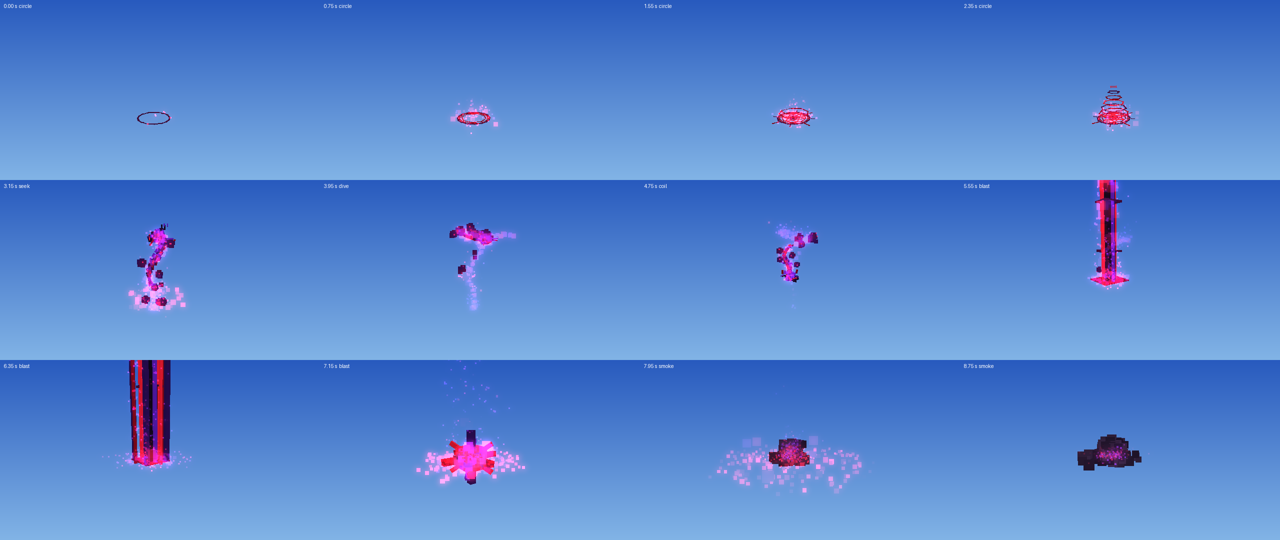
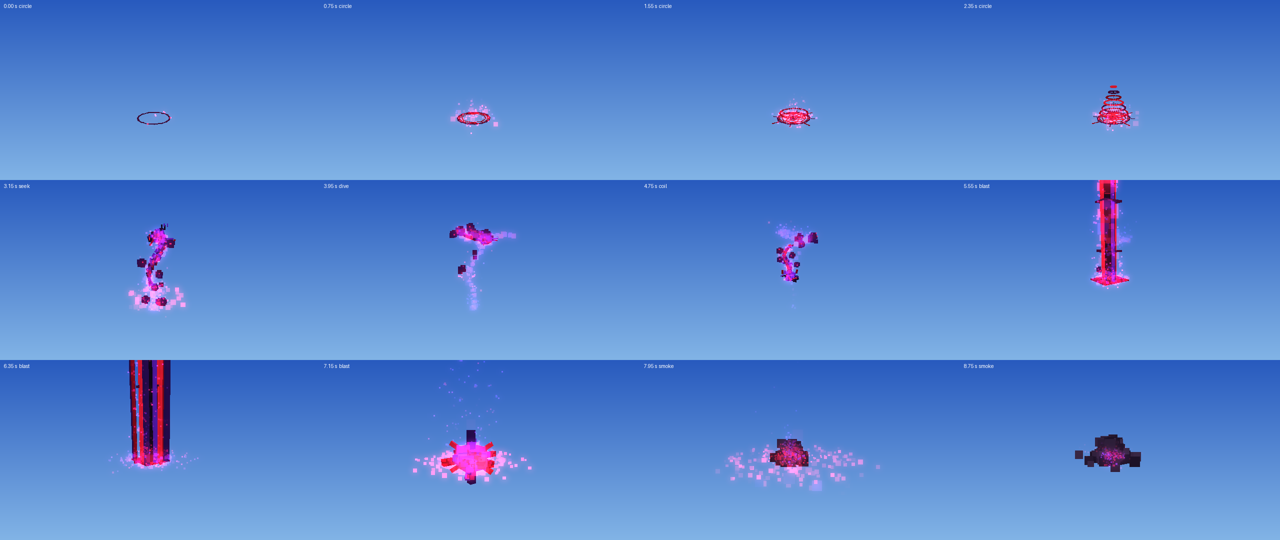
Circles above the ritual circle are ring particle emitters (one entity each); beam tip ball is particles; main circle stays meshes

diff --git a/dragon_pulse/world_code.js b/dragon_pulse/world_code.js
@@ -28,6 +28,7 @@ var DP_CFG = {
   detail: 3,
   maxMeshes: 399,
   nodes: "",
+  ringParticles: true,
 }
 
 var DP_COL = {
@@ -60,12 +61,12 @@ var DP_CIRCLE = [
   [4, 0.42, 0.84, 0.1, 0.06, "blood", 0, 0.06, 24, 0.12],
   [4, 4.7, 1.5, 0.2, 0.06, "blood", 0, 0, 27, 0, "r"],
   [4, 4.35, 0.8, 0.12, 0.06, "wine", 45, 0, 29, 0, "r"],
-  [8, 3.1, 2.57, 0.1, 0.08, "blood", 0, 1.2, 31, 0.05, "k"],
-  [8, 2.6, 2.15, 0.1, 0.08, "wine", 22.5, 2.4, 33, -0.06, "k"],
-  [8, 2.1, 1.74, 0.1, 0.08, "crimson", 0, 3.6, 35, 0.07],
-  [8, 1.6, 1.33, 0.1, 0.08, "blood", 22.5, 4.8, 37, -0.08],
-  [6, 1.1, 1.27, 0.1, 0.08, "wine", 0, 6, 39, 0.09],
-  [4, 0.6, 1.2, 0.1, 0.08, "crimson", 0, 7.2, 41, -0.1],
+  [8, 3.1, 2.57, 0.1, 0.08, "blood", 0, 1.2, 31, 0.05, "ke"],
+  [8, 2.6, 2.15, 0.1, 0.08, "wine", 22.5, 2.4, 33, -0.06, "ke"],
+  [8, 2.1, 1.74, 0.1, 0.08, "crimson", 0, 3.6, 35, 0.07, "ke"],
+  [8, 1.6, 1.33, 0.1, 0.08, "blood", 22.5, 4.8, 37, -0.08, "ke"],
+  [6, 1.1, 1.27, 0.1, 0.08, "wine", 0, 6, 39, 0.09, "ke"],
+  [4, 0.6, 1.2, 0.1, 0.08, "crimson", 0, 7.2, 41, -0.1, "ke"],
   [1, 0, 0.5, 0.5, 0.5, "crimson", 0, 0.7, 44, 0, "spink"],
   [1, 0, 1.1, 1.1, 0.08, "void", 0, 0.08, 44, 0.2, "k"],
 ]
@@ -400,7 +401,9 @@ function dpBeam(c, base, k, tall, wide, two) {
   dpBars(c, "beam", "beam_", base, k, w, tall)
   if (two) dpBars(c, "beam2", "beam_b", base, k, w, tall * two)
   var top = DP_MESH.beamTop
-  dpPut(c, "beam_tip", top[0], "", dpAdd(base, [0, 1, 0], tall), null, k)
+  dpSize = 2 * k
+  dpShape("ray", dpAdd(base, [0, 1, 0], tall), dpBall(10), 1.1 * k, 0)
+  dpSize = 1
   dpPut(c, "beam_base", top[1], "", dpAdd(base, [0, 1, 0], 0.1), null, k)
   for (var n = 0; n < 3; n++) dpPut(c, "beam_ring" + n, top[2], "", dpAdd(base, [0, 1, 0], tall * ((n / 3 + c.t * 0.11) % 1)), null, k)
   dpFx("mote", base, 8, 1.4 * k, "magenta", "white", [0, 1, 0])
@@ -498,6 +501,34 @@ function dpRigid(c, name, tag, pos, B, k) {
   if (id && c.fresh) dpRows(name).forEach((r) => dpHang(id, r, k, [r[6] * k, r[7] * k, r[5] * k], 0))
 }
 
+function dpEmitter(rad, col) {
+  var a = DP_COL[col]
+  var b = DP_COL.crimson
+  return {
+    texture: "square_particle",
+    minLifeTime: 0.24,
+    maxLifeTime: 0.36,
+    minEmitPower: 0.05,
+    maxEmitPower: 0.25,
+    minSize: 0.12,
+    maxSize: 0.24,
+    gravity: [0, 0.4, 0],
+    velocityGradients: [{ timeFraction: 0, factor: 1, factor2: 1 }],
+    colorGradients: [
+      { timeFraction: 0, minColor: b.concat(1), maxColor: b.concat(1) },
+      { timeFraction: 0.3, minColor: a.concat(1), maxColor: b.concat(1) },
+      { timeFraction: 1, minColor: a.concat(0), maxColor: a.concat(0) },
+    ],
+    blendMode: 2,
+    hideDist: DP_CFG.hideDist,
+    width: rad * 2,
+    depth: rad * 2,
+    height: 0.08,
+    emitRate: Math.round(30 + rad * 40),
+    emitterShape: "ring",
+  }
+}
+
 function dpCircle(c) {
   var node = DP_CFG.nodes
   for (var a = 0; a < DP_CIRCLE.length; a++) {
@@ -507,6 +538,21 @@ function dpCircle(c) {
     if (age < 0) continue
     if (age === 0) dpSound("ring", c.home, 0.8 + a * 0.07)
     var radial = dpFlag(row, "r")
+    if (DP_CFG.ringParticles && dpFlag(row, "e")) {
+      if (!c.m["ring" + a + "_e"] && dpMeshes + dpOther() < DP_CFG.maxMeshes) {
+        try {
+          var e = api.attemptCreateMeshEntity("ParticleEmitter", dpEmitter(r[1], r[5]))
+          if (e) {
+            c.m["ring" + a + "_e"] = e
+            dpMeshes++
+            api.setPosition(e, c.home[0], c.home[1] + r[7], c.home[2])
+          }
+        } catch (err) {
+          DP_CFG.ringParticles = false
+        }
+      }
+      if (DP_CFG.ringParticles) continue
+    }
     if (node) {
       var id = dpCarrier(c, "ringc" + r[9], c.home, null, -r[9] * c.ct)
       if (!id || c.hung[a]) continue

diff --git a/dragon_pulse/tools/render.py b/dragon_pulse/tools/render.py
@@ -126,7 +126,7 @@ strip.resize((W * 2, H * 3 // 2)).save(os.path.join(out, 'timeline.png'))
 
 # Six moments from close by. The last two are two dragons that met.
 tick_of = lambda frames, ph, i: [f['t'] for f in frames if f['ph'] == ph][i]
-shots = [(one, one_live, 3, -3, 26), (one, one_live, 4, 4, 14), (one, one_live, 5, 22, 75),
+shots = [(one, one_live, 0, -1, 11), (one, one_live, 1, 9, 16), (one, one_live, 5, 22, 75),
          (one, one_live, 5, 37, 45), (one, one_live, 6, 5, 30), (two, two_live, 9, 9, 110)]
 sheet = Image.new('RGB', (W * 3, H * 2))
 for i, (frames, live, ph, at, back) in enumerate(shots):

diff --git a/README.md b/README.md
@@ -133,9 +133,9 @@ The meshes sit over your own skin; they do not hide it.
 
 | File | Goes into | Characters | Limit |
 |---|---|---|---|
-| `world_code.js` | World Code | 39,281 | 512,000 |
-| `goodra.js` | World Code, below `world_code.js` | 10,215 | 512,000 together: 49,497 |
-| `skin.js` | World Code | 6,032 | 512,000, all three together: 55,530 |
+| `world_code.js` | World Code | 40,662 | 512,000 |
+| `goodra.js` | World Code, below `world_code.js` | 10,215 | 512,000 together: 50,878 |
+| `skin.js` | World Code | 6,032 | 512,000, all three together: 56,911 |
 | `code_block.js` | Code Block | 18 | 32,000 |
 | `studio/particles_only.code_block.js` | Code Block | 6,430 | 32,000 |
 
@@ -146,12 +146,12 @@ the table columns mean is written on this page instead.
 
 | Step | What happens | Built from | Seconds |
 |---|---|---|---|
-| circle | The summoning circle draws itself ring by ring; the star in it turns. Then six more circles appear above it, one after another going up, each smaller than the one below and turning the other way | 124 meshes in 19 rings: a smooth 16-sided outer band with a thin inner band, dashes and dots between them like runes, an octagon, a turning six-pointed star whose points touch it, a hexagon and a square turning the other way, eight spikes outside, a core over a turning plate, and a 7-block-tall cone of six circles above; rising sparks | 0.0–2.5 |
+| circle | The summoning circle draws itself ring by ring; the star in it turns. Then six more circles appear above it, one after another going up, each smaller than the one below and turning the other way | 88 mesh entities: 82 meshes in 13 rings for the main circle and 6 ring particle emitters for the circles above it; a smooth 16-sided outer band with a thin inner band, dashes and dots between them like runes, an octagon, a turning six-pointed star whose points touch it, a hexagon and a square turning the other way, eight spikes outside, a core over a turning plate, and a 7-block-tall cone of six circles above; rising sparks | 0.0–2.5 |
 | emerge | A pillar of light, then the dragon comes up through the floor and spirals 16 blocks up | 113 meshes: a 55-part head and a 58-part body that follows the head's path. The five cloud orbs beside it and the trail behind it are particles | 2.5–3.15 |
 | seek | It circles at the top, then picks its target; a ring flashes on the target | the same dragon | 3.15–3.75 |
 | dive | It weaves down onto the target | the same dragon, shimmer particles | 3.75–4.7 |
 | coil | It wraps round the target; two stars flash | no meshes: each star is 48 particles placed along 12 rays, plus sparks | 4.7–5.3 |
-| beam | The dragon turns into a massive black beam that shoots 72 blocks straight up from the target | 10 meshes: a black core and four thin red and purple beams that grow, a red ball on the tip, a disc at the foot, three collars travelling up; rising sparks | 5.35–5.85 |
+| beam | The dragon turns into a massive black beam that shoots 72 blocks straight up from the target | 9 meshes: a black core and four thin red and purple beams that grow, a ball of particles on the tip, a disc at the foot, three collars travelling up; rising sparks | 5.35–5.85 |
 | second beam | A second beam rises around the first in a fifth of a second and waits: the two throb and slowly thicken (about 9 blocks across) while light is pulled in at the foot and down from the tip | 8 more meshes: four near-black bars on the corners and four thin red bars outside the first beam; gathering glints, a red glow | 5.85–6.65 |
 | collapse | It all comes down: both beams sink from the top into the ground in 0.3 s and get twice as thick while they do | the same 18 meshes; streaks racing down | 6.65–6.95 |
 | blast | It explodes on the ground: a spiked star bursts out to 20 blocks across, three shock rings of particles widen at three heights out to the blast radius, then the star shrinks away. The target is killed at the first moment, others within 16 blocks are hurt and pushed | 8 meshes: the star (`blast`). The rings are 40, 32 and 24 particles, each placed on its circle; flashes, debris, embers, shock waves | 6.95–7.8 |
@@ -228,7 +228,8 @@ The summoning circle is in `DP_CIRCLE`. One row is one ring of equal boxes:
 - spin: how far the ring turns each tick; 0 stands still.
 - flag `spin`: the boxes turn by themselves (the runes and the core). Flag `r`:
   the boxes point away from the middle instead of along the ring. Flag `k`: the
-  ring stays while the dragon comes out.
+  ring stays while the dragon comes out. Flag `e`: the ring is a particle emitter
+  instead of meshes.
 
 ![The dragon laid out straight](dragon_pulse/preview/dragon.png)
 
@@ -237,8 +238,8 @@ The summoning circle is in `DP_CIRCLE`. One row is one ring of equal boxes:
 *Drawn outside the game with plain light so the parts can be told apart. In the
 game they glow.*
 
-The move stays under 400 meshes. One cast holds at most 153 meshes at once (circle and dragon together, while it
-comes out); two dragons about to merge hold up to 302. To fit, the
+The move stays under 400 meshes. One cast holds at most 143 meshes at once (circle and dragon together, while it
+comes out); two dragons about to merge hold up to 282. To fit, the
 circle is cut down to 40 meshes (outer band, star, core and the two lowest of
 the circles above: the rings with flag `k`) at the moment the dragon starts to come out. `maxMeshes` is 399, and the
 meshes of a standing Goodra count toward it, so the code never asks for a 400th. All are deleted when the move ends.
@@ -251,9 +252,9 @@ group becomes one mesh entity that carries the rest:
 
 | | Mesh entities | With node meshes |
 |---|---|---|
-| Summoning circle | 124 | 9 (one per turning speed) carrying 124 node meshes |
+| Summoning circle | 88 | 11 (5 carriers with 82 node meshes, and the 6 ring emitters) |
 | Dragon head | 55 | 1 carrying 55 |
-| One cast at most | 153 | 68 |
+| One cast at most | 143 | 70 |
 
 The body, orbs and trail bend along the flight path piece by piece, so they stay
 mesh entities. With node meshes on, the whole circle stays while the dragon comes
@@ -298,7 +299,8 @@ in a tick, two about 190.
 
 Some effects that used to be meshes are now built from particles that are each
 placed at an exact point with an exact speed, the way the Particle Studio does
-it. That frees 30 meshes on the dragon and up to 50 more at the end of the move.
+it. That frees 30 meshes on the dragon, 36 in the ritual circle and up to 50 more at
+the end of the move.
 
 | Effect | Before | Now |
 |---|---|---|
@@ -306,6 +308,8 @@ it. That frees 30 meshes on the dragon and up to 50 more at the end of the move.
 | Trail behind the tail | 10 meshes | 5 particles a tick along the path, each smaller than the one before |
 | The two bite stars | 12 meshes | 48 particles on 12 rays that fly outward, the far ones faster |
 | Shock rings of the blast | 30 meshes | 40, 32 and 24 particles on three circles that widen to the blast radius |
+| The six circles above the ritual circle | 42 meshes | 6 ring particle emitters, one entity each (see below) |
+| The ball on the beam's tip | 1 mesh | 10 particles on a small sphere, drawn again every tick |
 | Smoke and dust | 20 meshes | smoke on spheres that swell and rise, dust on a widening ring |
 
 The dragon, the ritual circle, the beams and the star of the blast are still
@@ -318,6 +322,20 @@ second. `dpBall(n)` gives `n` directions spread evenly over a sphere and
 `dpRing(n, turn)` gives `n` round a circle. The looks are `cloud`, `ray`,
 `front` and `puff` in `DP_FX`. The cost is one api call per particle; a tick
 makes at most about 100 particle calls.
+
+### Ring particle emitters
+
+The six circles above the main ritual circle are `ParticleEmitter` mesh entities
+with `emitterShape: "ring"`: the game itself keeps emitting particles round the
+ring, so each circle is one entity and needs no calls after it is made. The main
+circle on the floor is still meshes. `dpEmitter(radius, colour)` builds the
+options; rows of `DP_CIRCLE` with flag `e` use it.
+
+Set `ringParticles: false` in `DP_CFG` to get the mesh circles back. The code
+also switches back by itself if the game throws an error when the first emitter
+is made. Not tested in the game: how thick and how bright the rings look depends
+on how the game draws the emitter, and may need the numbers in `dpEmitter`
+changed (`emitRate`, `minSize`, `maxSize`, life).
 
 ### The Particle Studio scene
 
@@ -477,7 +495,7 @@ It cannot show how the game draws it. Things to look at first in your world:
 - **Mesh limit.** The game limits mesh entities but does not publish the number.
   If parts of the dragon are missing, lower `detail`.
 - **Many casts at once.** There is no cooldown. Up to `maxCasts` (4) casts run
-  together and share `maxMeshes` (399). Two dragons need 302; a third at the same time is cut
+  together and share `maxMeshes` (399). Two dragons need 282; a third at the same time is cut
   short.
 - **Speed.** At full detail one dragon makes up to 330 api calls per tick, two
   up to 540. If the game stutters or stops the script, lower `detail`.
